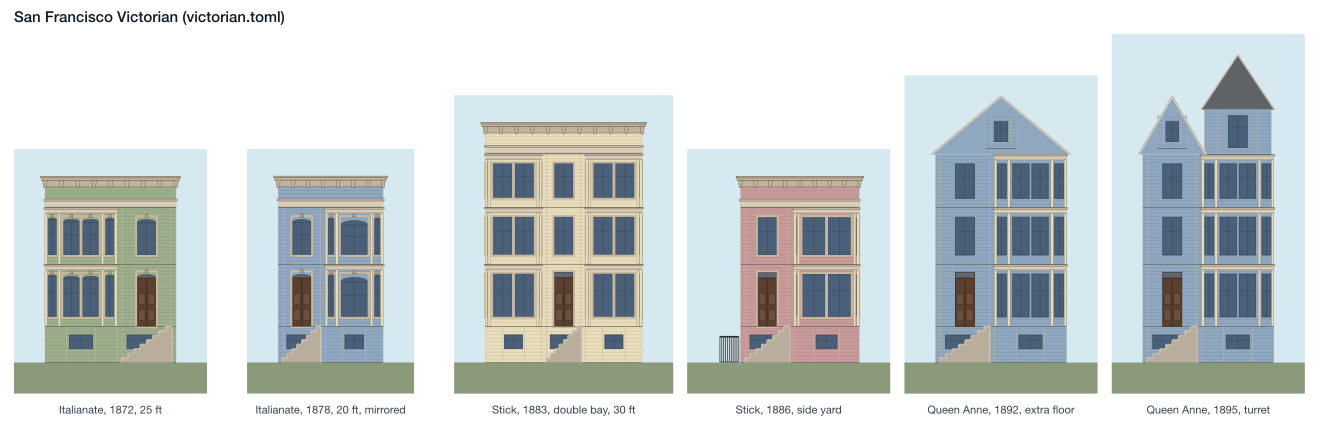
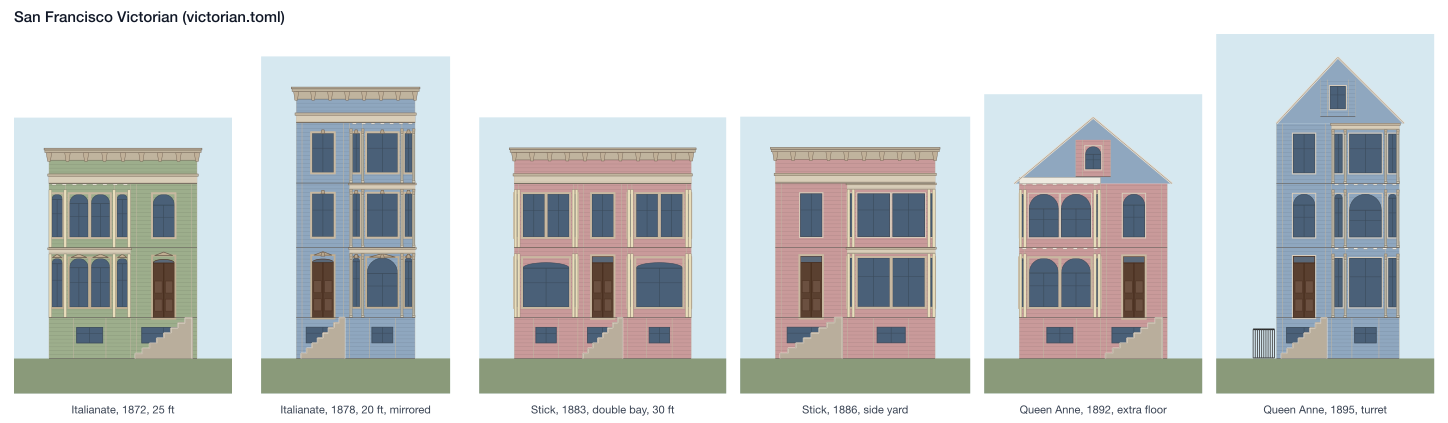
Stochastic alternatives: draw, chance, between and pick
Any rule-file expression can now make a weighted choice that belongs to a
shape (per = "Storey", "Lot", or the shape itself), each from its own
addressed stream, so choices compound down the tree the way an
L-system's do without reshuffling one another. Rules gain `pick` tables
of option = weight. The SF Victorian is the first style converted: layout,
bay shape, top, paint and corners per house; heads, hoods, glazing,
keystones, pairing and belt courses per floor, the parlour weighted the
richer. 100 seeds on one lot now give 100 distinct houses (was 8).

diff --git a/src/buildings/typologies/common/rulefile.py b/src/buildings/typologies/common/rulefile.py
@@ -124,7 +124,57 @@ def _same_label(shape: Shape) -> list[Shape]:
     return [s for s in shape.siblings if s.label == shape.label]
 
 
-def _functions(shape: Shape) -> dict[str, Callable[..., Any]]:
+def _anchor(shape: Shape, per: str | None) -> Shape:
+    """The shape a draw belongs to: the shape itself, the whole lot, or the
+    nearest shape (itself or an ancestor) with the label ``per``."""
+    if per is None:
+        return shape
+    node = shape
+    if per == "Lot":
+        while node.parent is not None:
+            node = node.parent
+        return node
+    while node is not None and node.label != per:
+        node = node.parent
+    if node is None:
+        raise ExprError(f"draw(..., per={per!r}): {shape.id} ({shape.label}) has no {per} above it")
+    return node
+
+
+def _drawer(shape: Shape, rng: DecisionStream | None):
+    """Stochastic choices, each from its own stream addressed by the shape it
+    belongs to and a key, so adding a draw anywhere never reshuffles another,
+    and two floors (or two houses) choose independently."""
+
+    def stream(key: str, per: str | None):
+        if rng is None:
+            raise ExprError(f"draw({key!r}): random draws are not available here (a production guard or a site attribute)")
+        return rng.at(f"draw/{_anchor(shape, per).id}/{key}")
+
+    def draw(key: str, options, weights=None, per: str | None = None):
+        if isinstance(options, Mapping):
+            options, weights = list(options.keys()), list(options.values())
+        options = list(options)
+        if not options:
+            raise ExprError(f"draw({key!r}): no options")
+        r = stream(key, per)
+        if weights is None:
+            return r.choice(options)
+        weights = [float(w) for w in weights]
+        if len(weights) != len(options) or sum(weights) <= 0:
+            raise ExprError(f"draw({key!r}): weights must match the options and not all be zero")
+        return r.choices(options, weights=weights, k=1)[0]
+
+    def between(key: str, lo: float, hi: float, per: str | None = None) -> float:
+        return stream(key, per).uniform(float(lo), float(hi))
+
+    def chance(key: str, p: float, per: str | None = None) -> bool:
+        return stream(key, per).random() < float(p)
+
+    return {"draw": draw, "between": between, "chance": chance}
+
+
+def _functions(shape: Shape, rng: DecisionStream | None = None) -> dict[str, Callable[..., Any]]:
     def bays() -> list[Shape]:
         return [c for c in shape.siblings if kit.is_bay(c)]
 
@@ -191,6 +241,11 @@ def _functions(shape: Shape) -> dict[str, Callable[..., Any]]:
         # across ``light`` (a scope, or None), one either side of it, and one
         # closing the run where ``last``; clamped inside the run.
         "frame_posts": _frame_posts,
+        # Stochastic alternatives: draw(key, options[, weights][, per]),
+        # between(key, lo, hi[, per]), chance(key, p[, per]). ``per`` names the
+        # shape the choice belongs to ("Storey", "Lot", ...; default the shape
+        # itself), so every window of a floor can share one draw.
+        **_drawer(shape, rng),
     }
 
 
@@ -300,11 +355,18 @@ class _Env:
     """Name resolution for one shape: locals, the shape's own geometry and
     place, the file's parameters, then the shape's attributes up the tree."""
 
-    def __init__(self, shape: Shape, params: Mapping[str, Any], local: Mapping[str, Any] | None = None) -> None:
+    def __init__(
+        self,
+        shape: Shape,
+        params: Mapping[str, Any],
+        local: Mapping[str, Any] | None = None,
+        rng: DecisionStream | None = None,
+    ) -> None:
         self.shape = shape
         self.params = params
         self.local: dict[str, Any] = dict(local or {})
-        self.functions = _functions(shape)
+        self.rng = rng
+        self.functions = _functions(shape, rng)
 
     def lookup(self, name: str) -> Any:
         if name in self.local:
@@ -334,7 +396,7 @@ class _Env:
         return expr(self.lookup, self.functions)
 
     def child(self, **local: Any) -> _Env:
-        return _Env(self.shape, self.params, {**self.local, **local})
+        return _Env(self.shape, self.params, {**self.local, **local}, self.rng)
 
 
 #: The functions an expression may call; checked when the file is loaded.
@@ -571,7 +633,7 @@ def _production(
     lets = [(k, _expr(e, f"{where}.let.{k}")) for k, e in spec.get("let", {}).items()]
 
     def body(shape: Shape, d: Derivation) -> None:
-        env = _lets(_Env(shape, params), lets)
+        env = _lets(_Env(shape, params, rng=d.rng), lets)
         for op in ops:
             env = op.run(shape, d, env)
 
@@ -584,18 +646,44 @@ def _production(
     return Production(spec["id"], spec["label"], body, guard=guard, priority=spec.get("priority", 0))
 
 
+def _picks(spec: Mapping[str, Any] | None, where: str):
+    """``pick = { per = "Storey", head = { segmental = 3, round = 1 } }``: each
+    attribute drawn from weighted options (weights may be expressions), once
+    per ``per`` shape."""
+    if spec is None:
+        return None
+    spec = dict(spec)
+    per = spec.pop("per", None)
+    table: dict[str, tuple[list[Any], list[Any]]] = {}
+    for name, options in spec.items():
+        if not isinstance(options, Mapping) or not options:
+            raise RuleFileError(f"{where}.{name}: options are a table of option = weight")
+        table[name] = (list(options.keys()), [_expr(w, f"{where}.{name}.{o}") for o, w in options.items()])
+    return per, table
+
+
 def _rule(spec: Mapping[str, Any], params: Mapping[str, Any], where: str):
     when = _expr(spec["when"], f"{where}.when") if "when" in spec else None
     lets = [(k, _expr(e, f"{where}.let.{k}")) for k, e in spec.get("let", {}).items()]
-    values = _map(spec["set"], f"{where}.set")
+    values = _map(spec.get("set"), f"{where}.set")
+    picks = _picks(spec.get("pick"), f"{where}.pick")
+    if not values and not picks:
+        raise RuleFileError(f"{where}: a rule needs 'set' or 'pick'")
     rule_id, specificity = spec["id"], spec.get("specificity", 0)
 
     def rule(shape: Shape, rng: DecisionStream) -> Attrs | None:
-        env = _Env(shape, params)
+        env = _Env(shape, params, rng=rng)
         if when is not None and not env.eval(when):
             return None
         env = _lets(env, lets)
-        return Attrs(_eval_map(env, values), rule=rule_id, specificity=specificity)
+        out = _eval_map(env, values)
+        if picks is not None:
+            per, table = picks
+            draw = env.functions["draw"]
+            for name, (options, weights) in table.items():
+                ws = [_run(env, w) for w in weights]
+                out[name] = draw(f"{rule_id}/{name}", options, ws, per)
+        return Attrs(out, rule=rule_id, specificity=specificity)
 
     rule.__name__ = rule_id.rsplit(".", 1)[-1]
     rule.__doc__ = spec.get("doc")
@@ -844,7 +932,7 @@ class Style:
 _KEYS = {
     "production": {"id", "label", "when", "priority", "doc", "let", "do"},
     "lsystem": {"id", "doc", "axiom", "ignore", "rules", "interpret"},
-    "rule": {"id", "label", "layer", "when", "let", "set", "specificity", "doc"},
+    "rule": {"id", "label", "layer", "when", "let", "set", "pick", "specificity", "doc"},
     "layer": {"name", "order"},
 }
 _TOP = {"style", "params", "lot_props", "emit", "production", "rule", "layer", "lsystem"}
@@ -880,6 +968,7 @@ def _check(data: Mapping[str, Any], path: Path) -> None:
         ops(prod.get("do", ()))
     for rule in data.get("rule", ()):
         written.update((rule.get("set") or {}).keys())
+        written.update(k for k in (rule.get("pick") or {}) if k != "per")
     shadowed = sorted(written & params)
     if shadowed:
         raise RuleFileError(

diff --git a/tests/unit/test_variety.py b/tests/unit/test_variety.py
@@ -1,0 +1,119 @@
+"""Stochastic alternatives: ``draw``/``between``/``chance`` in expressions and
+``pick`` in rules, and the variety they give a style on one fixed site."""
+
+from __future__ import annotations
+
+import hashlib
+import json
+from pathlib import Path
+
+import pytest
+
+from buildings.ir.serial import to_json
+from buildings.site import BuildingClass
+from buildings.typologies.common.rulefile import RuleFileError, load_style
+from buildings.typologies.paris.generate import walk
+from buildings.typologies.victorian.grammar import VictorianSite, derive_victorian, generate_victorian
+
+
+def _coarse(building) -> str:
+    """A signature of what a viewer would see as a different design: every
+    number rounded to 0.25 m, so sub-step jitter does not count as variety."""
+
+    def snap(v):
+        if isinstance(v, float):
+            return round(v * 4) / 4
+        if isinstance(v, dict):
+            return {k: snap(x) for k, x in v.items() if k != "trace"}
+        if isinstance(v, list):
+            return [snap(x) for x in v]
+        return v
+
+    data = snap(json.loads(to_json(building)))
+    return hashlib.md5(json.dumps(data, sort_keys=True).encode()).hexdigest()
+
+
+@pytest.mark.parametrize("year", [1875, 1885, 1892])
+def test_a_hundred_seeds_give_a_hundred_victorians_on_one_lot(year):
+    designs = {_coarse(generate_victorian(VictorianSite(year, BuildingClass.ORDINARY, s))[0]) for s in range(100)}
+    assert len(designs) >= 80, len(designs)
+
+
+def test_every_floor_matches_itself():
+    for seed in range(30):
+        lot, _ = derive_victorian(VictorianSite(1875, BuildingClass.ORDINARY, seed))
+        for storey in (s for s in lot.walk() if s.label == "Storey"):
+            cells = [c for c in storey.walk() if c.label == "Cell" and c.attrs.get("opening_type") == "window"]
+            assert len({c.attrs["head"] for c in cells}) <= 1, storey.id
+            assert len({c.attrs["surround_kind"] for c in cells}) <= 1, storey.id
+
+
+def test_a_round_head_is_never_over_one_wide_front_sash():
+    for seed in range(60):
+        lot, _ = derive_victorian(VictorianSite(1875, BuildingClass.ORDINARY, seed))
+        for c in lot.walk():
+            if c.label == "Cell" and c.attrs.get("face") == "front" and c.attrs.get("head") == "round" and c.scope.w > 2.2:
+                assert c.attrs.get("lights"), c.id
+
+
+def test_draws_are_reproducible():
+    site = VictorianSite(1885, BuildingClass.COMFORTABLE, 17)
+    assert to_json(generate_victorian(site)[0]) == to_json(generate_victorian(site)[0])
+
+
+def _style(tmp_path: Path, body: str):
+    path = tmp_path / "toy.toml"
+    path.write_text(
+        '[style]\nname = "toy"\nsite = ["seed"]\naxiom = { w = "10", h = "6" }\n\n'
+        "[params]\nheads = { segmental = 3, round = 1 }\n\n" + body
+    )
+    return load_style(path)
+
+
+_TOY = """
+[[production]]
+id = "toy.lot"
+label = "Lot"
+do = [ { split = "y", parts = [ { repeat = "[3.0, 3.0]", label = "Storey", size = "item", name = "s{i}" } ] } ]
+
+[[production]]
+id = "toy.storey"
+label = "Storey"
+do = [ { split = "x", parts = [ { repeat = "range(4)", label = "Cell", size = "2.5", name = "c{i}" } ] } ]
+"""
+
+
+class _Site:
+    def __init__(self, seed):
+        self.seed = seed
+
+
+def test_pick_draws_once_per_named_shape(tmp_path):
+    style = _style(
+        tmp_path,
+        _TOY + '\n[[rule]]\nid = "toy.head"\nlabel = "Cell"\npick = { per = "Storey", head = { segmental = 3, round = 1, flat = 2 } }\n',
+    )
+    floors_differ = False
+    for seed in range(40):
+        lot, _ = style.derive(_Site(seed))
+        per_floor = [{c.attrs["head"] for c in s.children} for s in lot.children]
+        assert all(len(h) == 1 for h in per_floor)
+        floors_differ |= per_floor[0] != per_floor[1]
+    assert floors_differ
+
+
+def test_a_new_draw_does_not_reshuffle_an_old_one(tmp_path):
+    base = _TOY + '\n[[rule]]\nid = "toy.head"\nlabel = "Cell"\nset = { head = "= draw(\'head\', heads, per=\'Storey\')" }\n'
+    more = base.replace(
+        "set = { head", "set = { colour = \"= draw('colour', ['red', 'blue'])\", head"
+    )
+    a, b = _style(tmp_path, base), _style(tmp_path / ".." / tmp_path.name, more)
+    for seed in range(20):
+        ha = [c.attrs["head"] for c in a.derive(_Site(seed))[0].walk() if c.label == "Cell"]
+        hb = [c.attrs["head"] for c in b.derive(_Site(seed))[0].walk() if c.label == "Cell"]
+        assert ha == hb
+
+
+def test_pick_options_need_weights(tmp_path):
+    with pytest.raises(RuleFileError):
+        _style(tmp_path, _TOY + '\n[[rule]]\nid = "toy.bad"\nlabel = "Cell"\npick = { head = "round" }\n')

diff --git a/src/buildings/cga/expr.py b/src/buildings/cga/expr.py
@@ -55,7 +55,7 @@ _CMP = {
 _ALLOWED = (
     ast.Expression, ast.Constant, ast.Name, ast.Load, ast.BinOp, ast.UnaryOp, ast.BoolOp,
     ast.Compare, ast.IfExp, ast.Call, ast.List, ast.Tuple, ast.Subscript, ast.Attribute,
-    ast.JoinedStr, ast.FormattedValue, ast.And, ast.Or, ast.Not, ast.USub, ast.UAdd,
+    ast.JoinedStr, ast.FormattedValue, ast.keyword, ast.And, ast.Or, ast.Not, ast.USub, ast.UAdd,
     *_BIN, *_CMP,
 )
 _SCOPE_FIELDS = frozenset({"x", "y", "w", "h"})
@@ -77,6 +77,8 @@ class Expr:
                 raise ExprError(f"{type(node).__name__} is not allowed in a rule expression: {src!r}")
             if isinstance(node, ast.Call) and not isinstance(node.func, ast.Name):
                 raise ExprError(f"only named functions may be called: {src!r}")
+            if isinstance(node, ast.keyword) and node.arg is None:
+                raise ExprError(f"**keywords are not allowed: {src!r}")
             if isinstance(node, ast.Attribute) and node.attr.startswith("_"):
                 raise ExprError(f"private attribute {node.attr!r} in {src!r}")
         self._tree = tree.body
@@ -132,7 +134,7 @@ def _eval(node: ast.AST, lookup, functions, src: str) -> Any:
         fn = functions.get(node.func.id)
         if fn is None:
             raise ExprError(f"unknown function {node.func.id!r} in {src!r}")
-        return fn(*[ev(a) for a in node.args])
+        return fn(*[ev(a) for a in node.args], **{k.arg: ev(k.value) for k in node.keywords})
     if isinstance(node, ast.List):
         return [ev(e) for e in node.elts]
     if isinstance(node, ast.Tuple):

diff --git a/dev/RULES.md b/dev/RULES.md
@@ -258,6 +258,45 @@ against each jamb half of one -- a context rule, `Jamb < Oculus` -- with a
 third generation drawing the foils out into a cusped quatrefoil on a grand
 house's broad lights.
 
+## Stochastic alternatives: `draw`, `chance`, `between` and `pick`
+
+A style's builders chose; the rules say what they chose among and how often.
+Any expression may draw:
+
+```toml
+layout = "= draw('layout', ['single_left', 'single_right'])"          # equal odds
+bay_form = "= draw('bay_form', bay_forms[kind])"   # a param table: { slanted = 4, square = 1 }
+head = "= draw('head', ['segmental', 'round', 'flat'], [3, 1, 2], per='Storey')"
+extra = "= chance('extra_floor', 0.33)"
+depth = "= between('cornice_depth', 0.8, 1.05, per='Lot')"
+```
+
+and a rule may list weighted options directly, the weights being numbers or
+expressions:
+
+```toml
+[[rule]]
+label = "Cell"
+when = "kind == 'italianate'"
+pick = { per = "Storey", head = { segmental = 3, round = 1, flat = "2 if role != 'parlour' else 1" } }
+```
+
+- **Where a draw belongs.** `per` names the shape the choice is made for:
+  the shape itself (the default), `"Lot"` (once per building), or any label
+  above it (`"Storey"`: every cell of a floor gets the same answer, two floors
+  may differ). Two draws with the same key on the same shape agree, so a rule
+  can read back another rule's choice by repeating its draw.
+- **Independence.** Each draw is its own stream, addressed by
+  `seed / that shape's id / key`. Adding a draw anywhere never reshuffles any
+  other, the way `grow`'s stochastic rules work, and the Paris generator's
+  decision streams before it.
+- **Determinism.** The same site gives the same building, forever.
+- Draws are available in productions and rules, not in production guards.
+
+`tests/unit/test_variety.py` holds each converted style to it: 100 seeds on
+one fixed site must give at least 80 designs that differ by more than a
+quarter of a metre somewhere.
+
 ## What stays in Python
 
 - **The engine and the shared kit:** window anatomy and IR writers.
